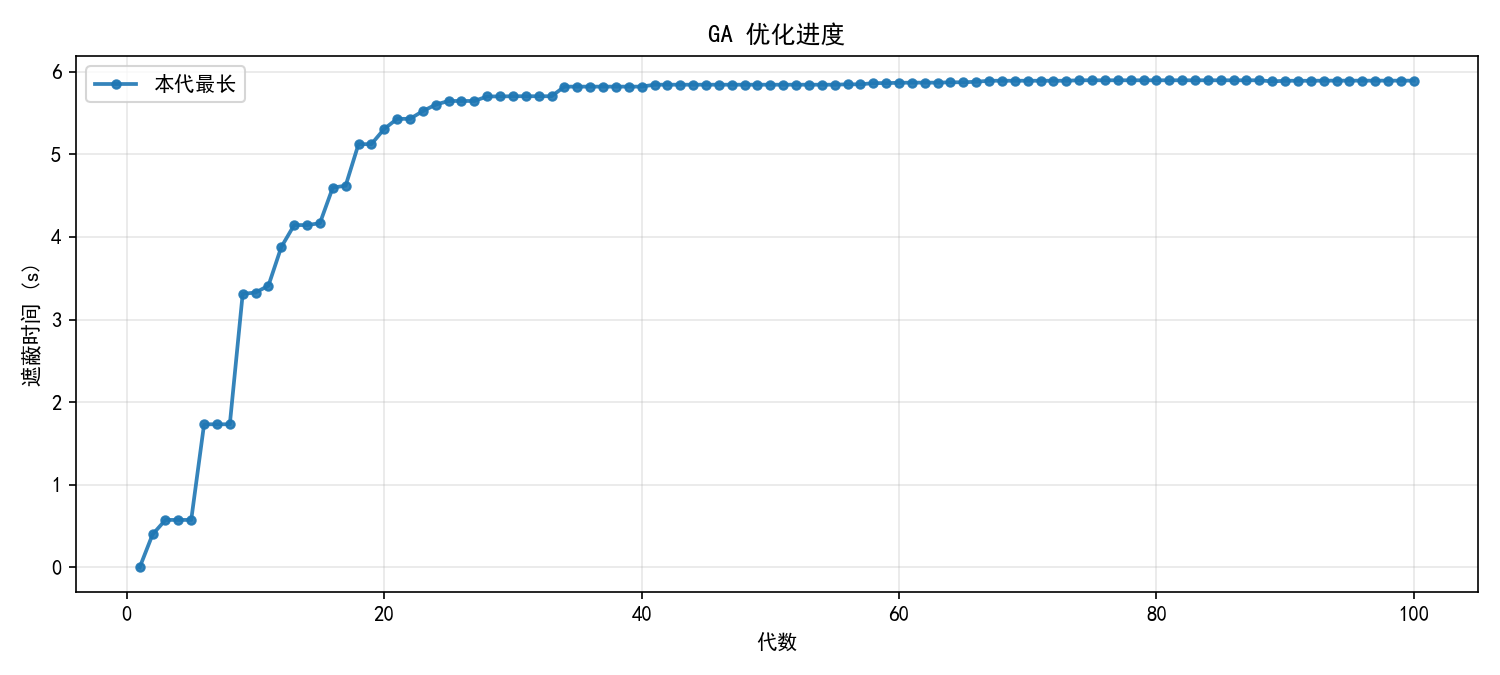
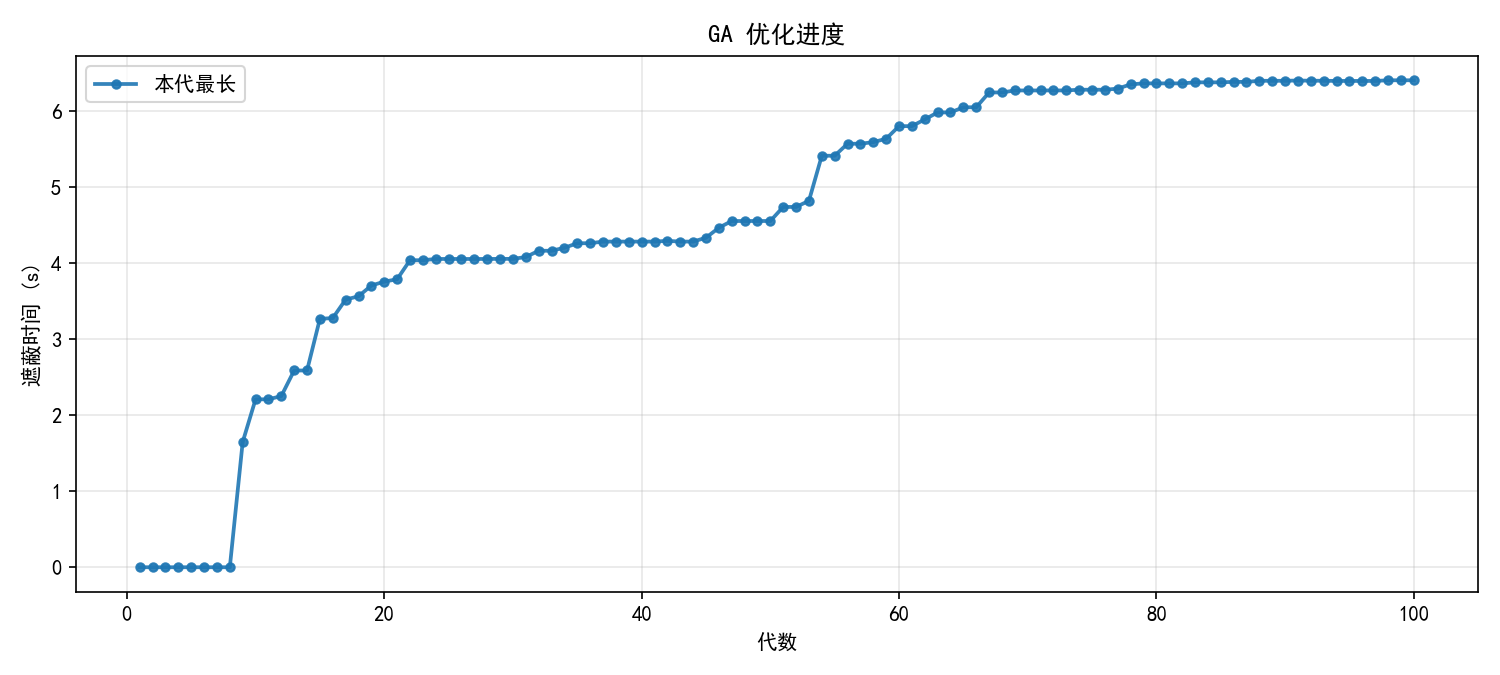
Enhance genetic algorithm and PSO scripts for improved optimization
- Introduced a biased angle sampling method in the genetic algorithm to increase the probability of exploring small angles.
- Updated the individual creation process to utilize the new angle sampling method.
- Modified the PSO script to reduce the number of iterations from 150 to 100 and added functionality to plot and save optimization progress.
- Updated output summaries for both GA and PSO to reflect new optimal parameters and overall run times.
- Removed obsolete GA progress image file to streamline output directory.

diff --git a/code/p4/p4_cma.py b/code/p4/p4_cma.py
@@ -1,0 +1,174 @@
+# -*- coding: utf-8 -*-
+"""
+Problem 3: 三架无人机协同对单导弹的遮蔽优化
+依赖: numpy, cma
+- [最终策略版 - 全局视野优化] 采用终极版适应度函数，通过计算并求和所有无人机的“潜力得分”，
+  为高维搜索提供丰富、准确的梯度，引导算法寻找真正的协同最优解。
+"""
+import math
+import numpy as np
+import time
+import cma
+
+# -----------------------------
+# 1) 题设常量与几何/运动模型
+# -----------------------------
+g = 9.8
+R = 10.0
+cloud_sink = 3.0
+M0 = np.array([20000.0, 0.0, 2000.0], dtype=float)
+to_origin = -M0 / np.linalg.norm(M0)
+vM = 300.0 * to_origin
+T_center = np.array([0.0, 200.0, 5.0], dtype=float)
+
+UAV_INITIAL_POS = {
+    'FY1': np.array([17800.0, 0.0, 1800.0]),
+    'FY2': np.array([12000.0, 1400.0, 1400.0]),
+    'FY3': np.array([6000.0, -3000.0, 700.0]),
+}
+UAV_NAMES = ['FY1', 'FY2', 'FY3']
+
+def M_pos(t: float) -> np.ndarray:
+    return M0 + vM * t
+
+# -------------------------------------
+# 2) 核心计算与适应度函数 (最终版)
+# -------------------------------------
+def point_to_segment_distance(c: np.ndarray, a: np.ndarray, b: np.ndarray):
+    ab = b - a; denom = float(np.dot(ab, ab))
+    if denom < 1e-9: return np.linalg.norm(c - a), 0.0
+    lam = float(np.dot(c - a, ab) / denom)
+    d = float(np.linalg.norm(c - (a + max(0.0, min(1.0, lam)) * ab)))
+    return d, lam
+
+def calculate_fitness_and_details_multi_uav(params, uav_positions, N_grid=501, is_final_calc=False):
+    num_uavs = len(uav_positions)
+    bombs_data = []
+    param_chunks = [params[i:i + 4] for i in range(0, len(params), 4)]
+
+    for i in range(num_uavs):
+        uav_name = list(uav_positions.keys())[i]
+        uav_pos0 = uav_positions[uav_name]
+        angle, speed, t_r, t_f = param_chunks[i]
+        angle_rad = np.deg2rad(angle); uav_dir = np.array([np.cos(angle_rad), np.sin(angle_rad), 0.0])
+        p_release = uav_pos0 + uav_dir * speed * t_r
+        explosion_point = np.array([p_release[0]+uav_dir[0]*speed*t_f, p_release[1]+uav_dir[1]*speed*t_f, uav_pos0[2]-0.5*g*(t_f**2)])
+        t_explode = t_r + t_f
+        bombs_data.append({'E': explosion_point, 't_exp': t_explode, 'P_rel': p_release})
+
+    min_exp_time = min(b['t_exp'] for b in bombs_data) if bombs_data else 0
+    max_exp_time = max(b['t_exp'] for b in bombs_data) if bombs_data else 0
+    t0, t1 = min_exp_time, max_exp_time + 20.0
+    t_grid = np.linspace(t0, t1, N_grid)
+    dt = t_grid[1] - t_grid[0] if N_grid > 1 else 0
+    
+    union_mask = np.zeros_like(t_grid, dtype=bool)
+    for i_t, t in enumerate(t_grid):
+        m_pos = M_pos(t); is_obscured = False
+        for bomb in bombs_data:
+            if t >= bomb['t_exp']:
+                c_pos = bomb['E'] - np.array([0, 0, cloud_sink * (t - bomb['t_exp'])])
+                d, lam = point_to_segment_distance(c_pos, m_pos, T_center)
+                if d <= R and 0.0 <= lam <= 1.0: is_obscured = True; break
+        union_mask[i_t] = is_obscured
+        
+    duration = np.sum(union_mask) * dt
+
+    if is_final_calc: return duration, bombs_data
+    
+    # --- [最终改良] 全局视野地形塑造逻辑 ---
+    if duration > 0:
+        fitness = 1000 + duration
+    else:
+        total_potential_fitness = 0
+        for bomb in bombs_data:
+            min_dist_bomb, lam_at_min_dist_bomb = float('inf'), -1.0
+            # 在每个弹的有效窗口内，找到其最小距离
+            bomb_window = np.linspace(bomb['t_exp'], bomb['t_exp'] + 20.0, 101) # 用较低分辨率快速评估
+            for t_bomb in bomb_window:
+                c_pos = bomb['E'] - np.array([0, 0, cloud_sink * (t_bomb - bomb['t_exp'])])
+                d, lam = point_to_segment_distance(c_pos, M_pos(t_bomb), T_center)
+                if d < min_dist_bomb: min_dist_bomb, lam_at_min_dist_bomb = d, lam
+            
+            # 如果该弹位置合理，则累加其潜力得分
+            if 0.0 <= lam_at_min_dist_bomb <= 1.0:
+                potential = 1.0 / (min_dist_bomb - R + 1e-6) if min_dist_bomb > R else 1e6
+                total_potential_fitness += potential
+        fitness = total_potential_fitness
+        
+    return fitness, duration
+
+# ---------------------------------------------
+# 3) CMA-ES 优化模块
+# ---------------------------------------------
+PARAM_BOUNDS = []
+param_template = [(0, 360), (70, 140), (0.01, 15.0), (0.5, 10.0)]
+for _ in range(len(UAV_NAMES)): PARAM_BOUNDS.extend(param_template)
+
+def objective_function_cma(params):
+    fitness, _ = calculate_fitness_and_details_multi_uav(params, UAV_INITIAL_POS)
+    return -fitness
+
+def run_cma_es_optimization():
+    print("=== 开始执行 CMA-ES 协同策略优化 (全局视野版) ===")
+    start_time = time.time()
+    
+    x0 = [(b[0] + b[1]) / 2 for b in PARAM_BOUNDS]
+    sigma0 = 8.0 
+    stds_template = [90, 18, 4.0, 2.5]
+    stds = []
+    for _ in range(len(UAV_NAMES)): stds.extend(stds_template)
+    bounds_low = [b[0] for b in PARAM_BOUNDS]; bounds_high = [b[1] for b in PARAM_BOUNDS]
+    
+    options = {'bounds': [bounds_low, bounds_high], 'CMA_stds': stds, 'maxiter': 500, 'popsize': 40, 'tolfun': 1e-5}
+    
+    es = cma.CMAEvolutionStrategy(x0, sigma0, options)
+    best_duration_overall = -1.0
+    while not es.stop():
+        solutions = es.ask()
+        eval_results = [calculate_fitness_and_details_multi_uav(s, UAV_INITIAL_POS) for s in solutions]
+        fitnesses = [-res[0] for res in eval_results]
+        es.tell(solutions, fitnesses)
+        
+        current_best_duration = max(res[1] for res in eval_results)
+        if current_best_duration > best_duration_overall: best_duration_overall = current_best_duration
+        
+        print(f"代数 {es.countiter:3d}/{options['maxiter']} | "
+              f"本代最长: {current_best_duration:.3f} s | "
+              f"历史最长: {best_duration_overall:.3f} s | "
+              f"最优函数值: {es.result.fbest:.2f}")
+
+    best_params = es.result.xbest
+    print(f"\n优化完成，耗时: {time.time() - start_time:.2f} s")
+    print(f"找到的历史最长时长: {best_duration_overall:.4f} s")
+    
+    return best_params
+
+# -----------------------------
+# 4) 主流程与格式化输出
+# -----------------------------
+def format_and_output_results(best_params):
+    print("\n=== 对最优协同策略进行高精度计算并生成报告... ===")
+    total_duration_precise, bombs_data_precise = calculate_fitness_and_details_multi_uav(
+        best_params, UAV_INITIAL_POS, N_grid=5001, is_final_calc=True
+    )
+    
+    print("\n" + "="*80)
+    print(" " * 28 + "多无人机协同烟幕干扰弹投放策略")
+    print("="*80)
+    for i in range(len(UAV_NAMES)):
+        angle, speed, t_r, t_f = best_params[i*4:(i+1)*4]
+        p, e = bombs_data_precise[i]['P_rel'], bombs_data_precise[i]['E']
+        print(f" 无人机 {UAV_NAMES[i]} 策略 ".center(50, '-'))
+        print(f"  飞行速度: {speed:.2f} m/s".ljust(25) + f"飞行方向: {angle:.2f} 度")
+        print(f"  投放时间: {t_r:.2f} s".ljust(25) + f"引信时间: {t_f:.2f} s")
+        print(f"  投放点 (x,y,z): ({p[0]:.1f}, {p[1]:.1f}, {p[2]:.1f})")
+        print(f"  起爆点 (x,y,z): ({e[0]:.1f}, {e[1]:.1f}, {e[2]:.1f})")
+    print("="*80)
+    print(f"总有效遮蔽时长 (协同): {total_duration_precise:.4f} s")
+    print("="*80)
+
+if __name__ == "__main__":
+    best_params = run_cma_es_optimization()
+    if best_params is not None:
+        format_and_output_results(best_params)

diff --git a/code/p3/python/问题3_PSO.py b/code/p3/python/问题3_PSO.py
@@ -10,7 +10,11 @@ import numpy as np
 import time
 import random
 import copy
- 
+import matplotlib.pyplot as plt
+
+# Matplotlib 中文显示设置
+plt.rcParams['font.sans-serif'] = ['SimHei']  # 指定默认字体
+plt.rcParams['axes.unicode_minus'] = False  # 解决保存图像是负号'-'显示为方块的问题
 
 # -----------------------------
 # 1) 物理参数
@@ -162,7 +166,7 @@ def run_pso_optimization():
 
     # PSO 超参数
     SWARM_SIZE = 80
-    ITERATIONS = 150
+    ITERATIONS = 100
     W = 0.6           # 惯性权重
     C1 = 1.6          # 个体学习因子
     C2 = 1.6          # 群体学习因子
@@ -181,6 +185,7 @@ def run_pso_optimization():
 
     start_time = time.time()
     best_at_10 = None; best_at_10_fit = -1.0
+    gen_best_list = []  # 仅记录每轮的本代最佳(低保真)
 
     for it in range(ITERATIONS):
         # 速度与位置更新
@@ -194,6 +199,7 @@ def run_pso_optimization():
 
         # 评估 (低保真)
         fits = np.array([get_fitness(list(p), fidelity='low') for p in positions])
+        gen_best_list.append(float(np.max(fits)))
 
         # 个体最优更新
         improved = fits > pbest_fit
@@ -250,6 +256,23 @@ def run_pso_optimization():
             f.write("最优无人机飞行方向(theta_FY1)：{:.3f} 度\n".format(angle_g))
             f.write("最优无人机飞行速度(V_FY1)：{:.2f} 米/秒\n".format(speed_g))
             f.write("\n[总体时最优的高保真遮蔽时长：{:.3f}s]\n".format(gbest_fit))
+
+        # 绘制并保存进度图（仅展示本代最长）
+        try:
+            plt.figure(figsize=(10,4.5))
+            x = list(range(1, len(gen_best_list)+1))
+            plt.plot(x, gen_best_list, 'o-', linewidth=1.8, markersize=4, color='#1f77b4', alpha=0.9, label='本代最长', zorder=2)
+            plt.xlabel('代数')
+            plt.ylabel('遮蔽时间 (s)')
+            plt.title('PSO 优化进度')
+            plt.legend()
+            plt.grid(alpha=0.3)
+            plt.tight_layout()
+            fig_path = os.path.join(out_dir, 'pso_progress.png')
+            plt.savefig(fig_path, dpi=150)
+            plt.close()
+        except Exception as e:
+            print("保存进度图失败:", e)
     except Exception as e:
         print("写入输出摘要失败:", e)
 

diff --git a/code/p3/python/问题3_GA.py b/code/p3/python/问题3_GA.py
@@ -156,7 +156,25 @@ PARAM_BOUNDS = [
 ]
 
 def check_bounds(val, bounds): return max(bounds[0], min(bounds[1], val))
-def create_individual(): return [random.uniform(b[0], b[1]) for b in PARAM_BOUNDS]
+def _sample_biased_angle():
+    """优先在[0°,20°]∪[340°,360°]采样角度，提升小偏角探索概率。"""
+    if random.random() < 0.7:
+        # 70% 概率采样小偏角区
+        if random.random() < 0.5:
+            return random.uniform(0.0, 20.0)
+        else:
+            return random.uniform(340.0, 360.0)
+    # 30% 保留全局探索
+    return random.uniform(0.0, 360.0)
+
+def create_individual():
+    ind = []
+    for i, b in enumerate(PARAM_BOUNDS):
+        if i == 0:  # 角度
+            ind.append(_sample_biased_angle())
+        else:
+            ind.append(random.uniform(b[0], b[1]))
+    return ind
 def crossover_sbx(p1,p2): c1,c2=copy.deepcopy(p1),copy.deepcopy(p2); [crossover_sbx_gene(c1,c2,i) for i in range(len(p1))]; return c1,c2
 def crossover_sbx_gene(c1,c2,i):
     if random.random()>0.5: return
@@ -176,6 +194,11 @@ def mutate_polynomial_gene(ind,i):
     # i 发生改变时，确保 dt_r2、dt_r3 不小于 1.0
     if i in (4,6):
         ind[i] = max(ind[i], 1.0)
+    # 角度方向的引导性探索：向小偏角区轻微吸引
+    if i == 0:
+        if random.random() < 0.3:  # 30% 概率朝 0° 或 360° 拉近一点
+            target = 0.0 if random.random() < 0.5 else 360.0
+            ind[i] = check_bounds( ind[i] + 0.1*(target - ind[i]), PARAM_BOUNDS[i] )
 
 def run_ga_optimization():
     print("=== 开始执行三枚烟幕弹协同策略优化 ===")
